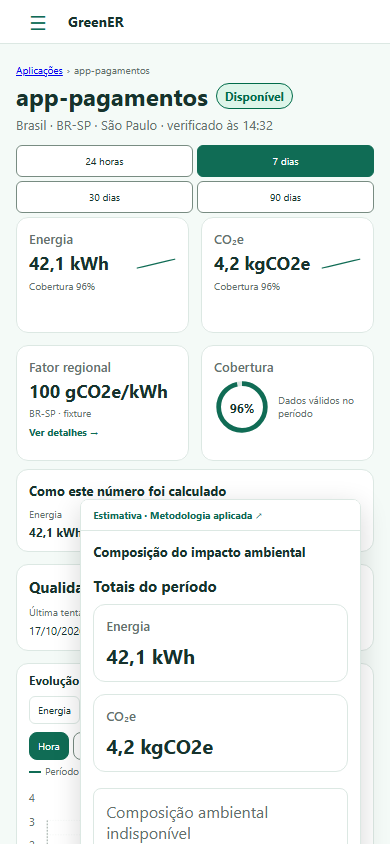
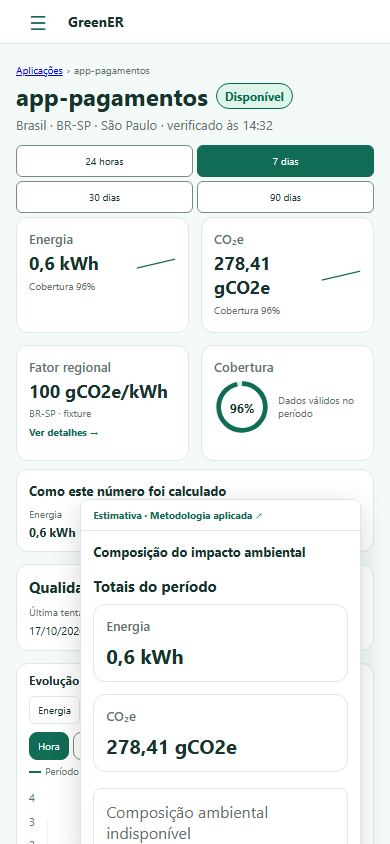
fix(frontend): formatar métricas e reduzir ruído do gráfico

diff --git a/frontend/e2e/application-detail.spec.ts b/frontend/e2e/application-detail.spec.ts
@@ -14,25 +14,25 @@ test('detail reference viewport keeps the sidebar fixed and free of scrollbars',
     if (path.endsWith('/series')) {
       const seriesFrom = url.searchParams.get('from') ?? from
       const isPreviousPeriod = seriesFrom !== from
-      const points = Array.from({ length: 7 }, (_, index) => {
-        const start = Date.parse(seriesFrom) + index * 24 * 60 * 60 * 1000
-        const end = start + 24 * 60 * 60 * 1000
+      const points = Array.from({ length: 168 }, (_, index) => {
+        const start = Date.parse(seriesFrom) + index * 60 * 60 * 1000
+        const end = start + 60 * 60 * 1000
         return { id: `point-${index}`, bucketStart: new Date(start).toISOString(), bucketEnd: new Date(end).toISOString(),
           period: { from: new Date(start).toISOString(), to: new Date(end).toISOString() },
-          energy: { value: (isPreviousPeriod ? 4 : 5) + index * (isPreviousPeriod ? 0.3 : 0.4), unit: 'kWh', reasons: [] },
-          emissions: { value: (isPreviousPeriod ? 1400 : 1700) + index * (isPreviousPeriod ? 100 : 136), unit: 'gCO2e', reasons: [] },
+          energy: { value: (isPreviousPeriod ? 4 : 5) + index * (isPreviousPeriod ? 0.03 : 0.04), unit: 'kWh', reasons: [] },
+          emissions: { value: (isPreviousPeriod ? 1400 : 1700) + index * (isPreviousPeriod ? 10 : 13.6), unit: 'gCO2e', reasons: [] },
           coverage: { energy: 0.96, emissions: 0.96 } }
       })
       await route.fulfill({ json: { status: 'available', applicationId: 'svc-0142', period: { from: url.searchParams.get('from'), to: url.searchParams.get('to') }, granularity: 'day',
-        totals: { energy: { value: 42.1, unit: 'kWh' }, emissions: { value: 4.2, unit: 'kgCO2e' } },
-        coverage: { energy: 0.96, emissions: 0.96 }, points, events: Array.from({ length: 14 }, (_, index) => ({
-          id: `event-${index}`, at: new Date(Date.parse(from) + (index + 1) * 12 * 60 * 60 * 1000).toISOString(),
+        totals: { energy: { value: 0.59873637, unit: 'kWh' }, emissions: { value: 278.41230959, unit: 'gCO2e' } },
+        coverage: { energy: 0.96, emissions: 0.96 }, points, events: Array.from({ length: 2323 }, (_, index) => ({
+          id: `event-${index}`, at: new Date(Date.parse(from) + 60 * 60 * 1000 + index * (166 * 60 * 60 * 1000 / 2322)).toISOString(),
           type: 'status_changed', details: { before: { state: 'AVAILABLE' }, after: { state: 'UNAVAILABLE' } },
         })) } })
       return
     }
     await route.fulfill({ json: { status: 'available', applicationId: 'svc-0142', period: { from, to },
-      energy: { value: 42.1, unit: 'kWh', reasons: [] }, emissions: { value: 4.2, unit: 'kgCO2e', reasons: [] },
+      energy: { value: 0.59873637, unit: 'kWh', reasons: [] }, emissions: { value: 278.41230959, unit: 'gCO2e', reasons: [] },
       coverage: { energy: 0.96, emissions: 0.96 },
       provenance: { methodologies: [{ key: 'estimate', version: '2.1', parameters: {} }], factors: [{
         contractVersion: '1', regionCode: 'BR-SP', country: 'Brasil', region: 'São Paulo', city: 'São Paulo',
@@ -44,13 +44,17 @@ test('detail reference viewport keeps the sidebar fixed and free of scrollbars',
     await route.fulfill({ json: { id: 'collection-layout', applicationId: 'svc-0142', intervalStart: '2026-10-19T14:25:00.000Z',
       intervalEnd: '2026-10-19T14:30:00.000Z', collectedAt: '2026-10-19T14:30:00.000Z', collectionIntervalSeconds: 300,
       isStale: false, state: 'AVAILABLE', reason: 'METRICS_VALID', lastCheckedAt: '2026-10-19T14:30:00.000Z', isCalculable: true,
-      metrics: { cpu: { value: 38, unit: '%', status: 'available' }, memory: { value: null, unit: null, status: 'missing' },
+      metrics: { cpu: { value: 40.96318, unit: '%', status: 'available' }, memory: { value: 3.626751999999998, unit: 'GB', status: 'available' },
         disk: { value: 0, unit: 'GB/s', status: 'available' }, network: { value: null, unit: 'Mbps', status: 'invalid' } } } })
   })
   await page.goto('/services/svc-0142')
   await expect(page.getByRole('heading', { name: 'app-pagamentos', exact: true })).toBeVisible()
   await expect(page.getByRole('figure', { name: /Evolução de CO₂e/ })).toBeVisible()
-  await expect(page.getByRole('table')).toContainText('38 %')
+  await expect(page.getByRole('table')).toContainText('40,96 %')
+  await expect(page.getByRole('table')).toContainText('3,63 GB')
+  await expect(page.getByRole('main')).toContainText('0,6 kWh')
+  await expect(page.getByRole('main')).toContainText('278,41 gCO2e')
+  await expect(page.getByRole('main')).not.toContainText('0,59873637')
 
   const before = await page.evaluate(() => {
     const sidebar = document.querySelector<HTMLElement>('.sidebar')!
@@ -104,18 +108,18 @@ test('detail reference viewport keeps the sidebar fixed and free of scrollbars',
   expect(headingAlignment.gap).toBeLessThanOrEqual(8)
   expect(Math.abs(headingAlignment.verticalOffset)).toBeLessThanOrEqual(4)
   await expect(page.locator('.events')).toHaveCount(0)
-  await expect(page.locator('[data-series-event-marker]')).toHaveCount(7)
-  expect(await page.locator('[data-series-event-marker]').evaluateAll(markers => markers.reduce((total, marker) => total + Number(marker.getAttribute('data-event-count')), 0))).toBe(12)
+  await expect.poll(() => page.locator('[data-series-event-marker]').count()).toBeLessThanOrEqual(25)
+  expect(await page.locator('[data-series-event-marker]').evaluateAll(markers => markers.reduce((total, marker) => total + Number(marker.getAttribute('data-event-count')), 0))).toBe(2323)
   await expect(page.getByRole('group', { name: 'Métrica' }).getByRole('button', { name: 'CO₂e' })).toHaveAttribute('aria-pressed', 'true')
   await expect(page.locator('.eventSummary')).toHaveCount(0)
-  await expect(page.getByText(/12 · Eventos do período/)).toBeVisible()
+  await expect(page.getByText(/2323 · Eventos do período/)).toBeVisible()
   await expect.poll(() => page.getByRole('figure', { name: /Evolução de CO₂e/ }).evaluate(chart => chart.getBoundingClientRect().height)).toBe(176)
   await expect(page.locator('[data-metric-sparkline]')).toHaveCount(2)
   await expect(page.locator('[data-coverage-ring]')).toHaveCount(1)
   await expect(page.getByRole('heading', { name: 'Evolução do consumo e emissões • 7 dias' })).toBeVisible()
   await expect(page.getByRole('button', { name: 'Hora', exact: true })).toBeVisible()
   await expect(page.getByRole('figure', { name: /Evolução de CO₂e \(kgCO2e\)/ })).toBeVisible()
-  const chartPoint = page.getByRole('button', { name: /16\/10\/2026/ })
+  const chartPoint = page.getByRole('button', { name: /16\/10\/2026/ }).first()
   await chartPoint.hover()
   await expect(page.getByRole('status')).toContainText('Atual:')
   await expect(page.getByRole('status')).toContainText('Anterior:')

diff --git a/frontend/src/pages/detail/AnalysisSeries.tsx b/frontend/src/pages/detail/AnalysisSeries.tsx
@@ -152,19 +152,25 @@ function Chart({ points, comparisonPoints, events, metric, label, locale, timeZo
           y: 128 - (point.value / chartMax) * 108,
         }))
         const segments = chartSegments(coordinates, true)
-        const markerGroups = new Map<string, { id: string; x: number; titles: string[]; count: number }>()
+        const interactivePoints = new Map<number, { point: PlotPoint; reading: NonNullable<typeof values[number]> }>()
+        coordinates.forEach((point, index) => {
+          const reading = values[index]
+          if (point && reading) interactivePoints.set(Math.floor(point.x / 24), { point, reading })
+        })
+        const markerGroups = new Map<number, { id: string; x: number; title: string; count: number }>()
         for (const event of events) {
           const time = Date.parse(event.at)
           if (!Number.isFinite(time) || time < minTime || time > maxTime || chronological.length === 0) continue
           const nearest = chronological.reduce((best, point) =>
             Math.abs(Date.parse(point.timestamp) - time) < Math.abs(Date.parse(best.timestamp) - time) ? point : best, chronological[0]!)
-          const marker = markerGroups.get(nearest.id) ?? { id: nearest.id, x: maxTime === minTime ? 300 : 8 + ((Date.parse(nearest.timestamp) - minTime) / (maxTime - minTime)) * 584,
-            titles: [], count: 0 }
+          const x = maxTime === minTime ? 300 : 8 + ((Date.parse(nearest.timestamp) - minTime) / (maxTime - minTime)) * 584
+          const bucket = Math.floor(x / 24)
+          const marker = markerGroups.get(bucket) ?? { id: `event-bin-${bucket}`, x: bucket * 24 + 12, title: labels.eventSummary(event), count: 0 }
           marker.count += 1
-          marker.titles.push(labels.eventSummary(event))
-          markerGroups.set(nearest.id, marker)
+          markerGroups.set(bucket, marker)
         }
-        const eventMarkers = [...markerGroups.values()].map(marker => ({ ...marker, title: marker.titles.join('; ') }))
+        const eventMarkers = [...markerGroups.values()].map(marker => ({ ...marker,
+          title: marker.count > 1 ? `${marker.title} · ${marker.count}` : marker.title }))
         const visibleEventCount = eventMarkers.reduce((total, marker) => total + marker.count, 0)
         const comparisonTimes = comparisonValues.flatMap(point => point ? [point.time] : [])
         const comparisonMinTime = comparisonTimes.length ? Math.min(...comparisonTimes) : 0
@@ -202,16 +208,13 @@ function Chart({ points, comparisonPoints, events, metric, label, locale, timeZo
               {comparisonSegments.map(segment => <polyline key={`previous:${segment.key}`} className={styles.previousSeries} points={segment.points} />)}
               {segments.map(segmentPath => <polyline key={segmentPath.key} points={segmentPath.points} />)}
               {eventMarkers.map(event => <g key={event.id} data-series-event-marker="true" data-event-count={event.count} className={styles.eventMarker}>
-                <title>{event.title}</title><line x1={event.x} y1="20" x2={event.x} y2="128" />
+                <title>{event.title}</title><line x1={event.x} y1="120" x2={event.x} y2="128" />
               </g>)}
-              {coordinates.map((point, index) => {
-                const reading = values[index]
-                return point && reading ? <circle key={point.id} cx={point.x} cy={point.y} r="4" role="button" tabIndex={0}
+              {[...interactivePoints.values()].map(({ point, reading }) => <circle key={point.id} cx={point.x} cy={point.y} r="4" role="button" tabIndex={0}
                   aria-label={`${formatDate(reading.timestamp)}: ${formatChartValue(reading.value, locale)} ${displayUnit}`}
                   onMouseEnter={() => setActivePointId(point.id)} onMouseLeave={() => setActivePointId(null)}
                   onFocus={() => setActivePointId(point.id)} onBlur={() => setActivePointId(null)}
-                  onKeyDown={event => { if (event.key === 'Escape') setActivePointId(null) }} /> : null
-              })}
+                  onKeyDown={event => { if (event.key === 'Escape') setActivePointId(null) }} />)}
               {activePoint && activeCoordinate && <g className={styles.chartTooltip} data-chart-tooltip="true" role="status" aria-live="polite"
                 transform={`translate(${Math.max(8, Math.min(476, activeCoordinate.x + 8))},${Math.max(4, activeCoordinate.y - 52)})`}>
                 <rect width="120" height={activeComparison ? 48 : 34} rx="5" />

diff --git a/frontend/src/pages/detail/EnvironmentalAnalysis.tsx b/frontend/src/pages/detail/EnvironmentalAnalysis.tsx
@@ -9,6 +9,7 @@ import type { EnvironmentalFreshnessLabels } from './EnvironmentalFreshness.tsx'
 import type { AnalysisSeriesPageSize, AnalysisSeriesQuery } from './seriesQuery.ts'
 import { useId, useState, type ReactNode, type SyntheticEvent } from 'react'
 import styles from './EnvironmentalAnalysis.module.css'
+import { formatNumber } from '../../utils/formatNumber.ts'
 
 type Labels = Readonly<{
   heading: string
@@ -138,7 +139,7 @@ function Reading({ reading, locale, notCalculable, metricUnavailable, reasons }:
 }
 
 function formatAnalysisNumber(value: number, locale: string) {
-  return new Intl.NumberFormat(locale, { maximumSignificantDigits: 21 }).format(value)
+  return formatNumber(value, locale)
 }
 
 function MetricCard({ id, title, reading, locale, labels, empty = false, coverage, seriesPoints = [], metric }: Readonly<{
@@ -183,12 +184,14 @@ function Sparkline({ points, metric }: Readonly<{ points: readonly AnalysisSerie
   return <svg data-metric-sparkline="true" className={styles.sparkline} viewBox="0 0 64 20" aria-hidden="true"><polyline points={coordinates} /></svg>
 }
 
-function FactorCard({ factor, labels, onViewDetails }: Readonly<{ factor: AnalysisFactorResult | null; labels: Labels; onViewDetails?: () => void }>) {
+function FactorCard({ factor, locale, labels, onViewDetails }: Readonly<{ factor: AnalysisFactorResult | null; locale: string; labels: Labels; onViewDetails?: () => void }>) {
   let value: string | null = null
   if (factor?.status === 'available') {
     if (factor.factors.length > 1) value = labels.multipleFactors
     else if (factor.factors.length === 1 && factor.factors[0].intensity !== null && factor.factors[0].unit !== null) {
-      value = `${factor.factors[0].intensity} ${factor.factors[0].unit}`
+      value = `${typeof factor.factors[0].intensity === 'number'
+        ? formatNumber(factor.factors[0].intensity, locale)
+        : formatFactorIntensity(factor.factors[0].intensity, locale)} ${factor.factors[0].unit}`
     }
   }
 
@@ -209,6 +212,11 @@ function FactorCard({ factor, labels, onViewDetails }: Readonly<{ factor: Analys
     </p>}
     {factor?.status === 'available' && onViewDetails && <button type="button" className={styles.factorDetailsLink} onClick={onViewDetails}>{labels.viewFactorDetails} →</button>}
   </fieldset>
+}
+
+function formatFactorIntensity(value: string, locale: string) {
+  const numericValue = Number(value)
+  return Number.isFinite(numericValue) ? formatNumber(numericValue, locale) : value
 }
 
 function CoverageCard({ data, locale, labels, empty = false }: Readonly<{
@@ -295,7 +303,7 @@ function UnavailableSlots({ labels }: Readonly<{ labels: Labels }>) {
   return <div className={styles.metrics}>
     <MetricCard id="analysis-energy" title={labels.energy} reading={null} locale="pt-BR" labels={labels} />
     <MetricCard id="analysis-emissions" title={labels.emissions} reading={null} locale="pt-BR" labels={labels} />
-    <FactorCard factor={null} labels={labels} />
+    <FactorCard factor={null} locale="pt-BR" labels={labels} />
     <CoverageCard data={null} locale="pt-BR" labels={labels} />
   </div>
 }
@@ -461,7 +469,7 @@ export function EnvironmentalAnalysis({ data, status, locale, labels, onRetry, f
           coverage={data.energyCoverage} seriesPoints={data.series.status === 'available' ? data.series.points : []} metric="energy" />
         <MetricCard id="analysis-emissions" title={labels.emissions} reading={data.emissions} locale={locale} labels={labels}
           coverage={data.emissionsCoverage} seriesPoints={data.series.status === 'available' ? data.series.points : []} metric="emissions" />
-        <FactorCard factor={data.factor} labels={labels} onViewDetails={() => setContextOpen(true)} />
+        <FactorCard factor={data.factor} locale={locale} labels={labels} onViewDetails={() => setContextOpen(true)} />
         <CoverageCard data={data} locale={locale} labels={labels} />
       </div>}
     </section>

diff --git a/frontend/src/pages/detail/ApplicationDetailPage.tsx b/frontend/src/pages/detail/ApplicationDetailPage.tsx
@@ -15,6 +15,7 @@ import { EnvironmentalAnalysis } from './EnvironmentalAnalysis.tsx'
 import { getBrowserTimeZone, parseAnalysisSeriesPageSize, readAnalysisSeriesQuery, writeAnalysisSeriesQuery, type AnalysisSeriesPageSize, type AnalysisSeriesQuery } from './seriesQuery.ts'
 import { useEnvironmentalAnalysis } from './useEnvironmentalAnalysis.ts'
 import { AnalysisGranularity } from './AnalysisGranularity.tsx'
+import { formatNumber } from '../../utils/formatNumber.ts'
 
 type EnvironmentalStatus = ReturnType<typeof useEnvironmentalAnalysis>['status'] | 'invalid-period' | 'invalid-granularity'
 
@@ -98,7 +99,7 @@ export function ApplicationDetailPage({ id, navigate, analysisSource = environme
       selected={selectedCollectionId !== null} error={collectionError} refreshing={refreshing} onRefresh={retry}
       calculability={application.isCalculable ? tCommon('calculability.available') : tCommon('calculability.unavailable')}
       formatDate={(value) => formatDate(value, locale, tCommon('date.noObservation'), displayTimeZone)}
-      formatNumber={(value) => new Intl.NumberFormat(locale, { maximumSignificantDigits: 21 }).format(value)}
+      formatNumber={(value) => formatNumber(value, locale)}
       locale={locale} query={evidenceQuery}
       onQueryChange={(query) => {
         const params = new URLSearchParams(window.location.search)

diff --git a/frontend/src/pages/detail/analysisSeriesData.ts b/frontend/src/pages/detail/analysisSeriesData.ts
@@ -1,6 +1,7 @@
 import type { AnalysisPresentationReason, AnalysisReading, AnalysisSeriesPoint } from '../../features/analysis/source.ts'
 import { formatInstantForDateTimeInput, parseDateTimeInputInZone } from './seriesQuery.ts'
 import type { AnalysisSeriesPageSize, AnalysisSeriesQuery } from './seriesQuery.ts'
+import { formatNumber } from '../../utils/formatNumber.ts'
 
 export type SeriesMetric = 'energy' | 'emissions'
 
@@ -18,7 +19,7 @@ export type NumericRange = Readonly<{
 }>
 
 export function formatSeriesNumber(value: number, locale: string) {
-  return new Intl.NumberFormat(locale, { maximumSignificantDigits: 21 }).format(value)
+  return formatNumber(value, locale)
 }
 
 export function formatSeriesReading(reading: AnalysisReading, locale: string, labels: SeriesLabels) {

diff --git a/frontend/src/pages/detail/AnalysisComposition.tsx b/frontend/src/pages/detail/AnalysisComposition.tsx
@@ -1,5 +1,6 @@
 import type { AnalysisCompositionResult, AnalysisPresentationReason, AnalysisReading } from '../../features/analysis/source.ts'
 import styles from './AnalysisComposition.module.css'
+import { formatNumber } from '../../utils/formatNumber.ts'
 
 export type AnalysisCompositionLabels = Readonly<{
   heading: string
@@ -30,7 +31,7 @@ function Reading({ reading, locale, labels }: Readonly<{
     </div>
   }
 
-  return <p className={styles.value}>{new Intl.NumberFormat(locale, { maximumSignificantDigits: 21 }).format(reading.value)} {reading.unit}</p>
+  return <p className={styles.value}>{formatNumber(reading.value, locale)} {reading.unit}</p>
 }
 
 function readingUnavailableLabel(status: AnalysisReading['status'], labels: AnalysisCompositionLabels) {

diff --git a/frontend/src/pages/detail/AnalysisSeries.module.css b/frontend/src/pages/detail/AnalysisSeries.module.css
@@ -28,7 +28,7 @@
 .chartTooltip rect { fill: var(--text-primary); }
 .chartTooltip text { fill: var(--surface-card); font-size: 9px; }
 .eventMarker { color: var(--text-secondary); }
-.eventMarker line { stroke: currentColor; stroke-width: 1.5; stroke-dasharray: 3 3; opacity: .75; }
+.eventMarker line { stroke: currentColor; stroke-width: 2; opacity: .75; }
 .axis { stroke: var(--border-default); stroke-width: 1; }
 .grid { stroke: var(--border-default); stroke-width: 1; opacity: .5; stroke-dasharray: 2 3; }
 .timeAxis { display: grid; grid-template-columns: repeat(auto-fit, minmax(0, 1fr)); gap: 4px; margin-left: 44px; color: var(--text-secondary); font-size: 9px; text-align: center; }

diff --git a/frontend/src/utils/formatNumber.ts b/frontend/src/utils/formatNumber.ts
@@ -1,0 +1,3 @@
+export function formatNumber(value: number, locale: string) {
+  return new Intl.NumberFormat(locale, { maximumFractionDigits: 2 }).format(value)
+}
